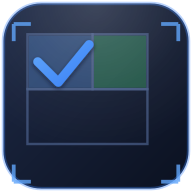
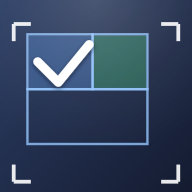
Fix double-masked corners on iOS, lighten navy, white check/brackets
The home-screen icon looked cropped/off because it baked in its own
rounded corners + border, and iOS applies its own corner mask on top —
double-rounding crops unevenly. New live-trak-icon-touch.svg is
full-bleed with no rounding or border, used only for generating icon-
192.png/icon-512.png; the favicon SVG keeps its own rounded/bordered
look since browsers don't re-mask it. Also lightened the navy
background, switched the checkmark and corner brackets to solid white,
and changed the grid outline from gray to light blue, applied
consistently across the favicon, touch icon, and both navbar logo
variants.

Claude-Session: https://claude.ai/code/session_01TUgxoL2zVKRWu6GynQ1Sbe

diff --git a/scripts/generate-icons.js b/scripts/generate-icons.js
@@ -1,7 +1,12 @@
 import sharp from 'sharp';
 import { readFileSync } from 'fs';
 
-const svg = readFileSync('public/live-trak-icon.svg');
+// Full-bleed, no rounded corners/border — iOS applies its own corner mask
+// over apple-touch-icon/manifest icons, so a self-rounded or bordered
+// source gets double-masked and crops unevenly. The favicon (live-trak-
+// icon.svg, referenced directly in index.html) keeps its own rounding
+// since browsers don't apply that kind of mask.
+const svg = readFileSync('public/live-trak-icon-touch.svg');
 
 await sharp(svg).resize(192, 192).png().toFile('public/icon-192.png');
 await sharp(svg).resize(512, 512).png().toFile('public/icon-512.png');
